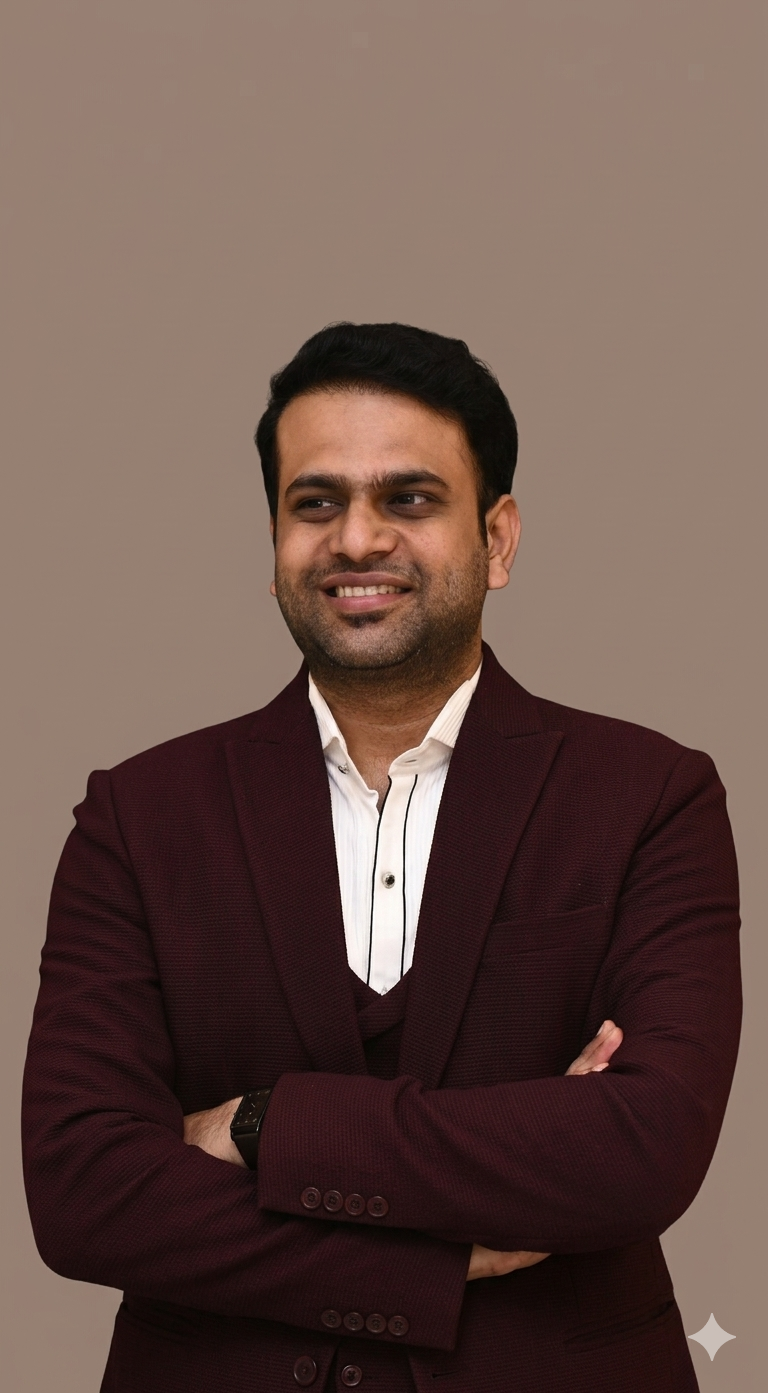
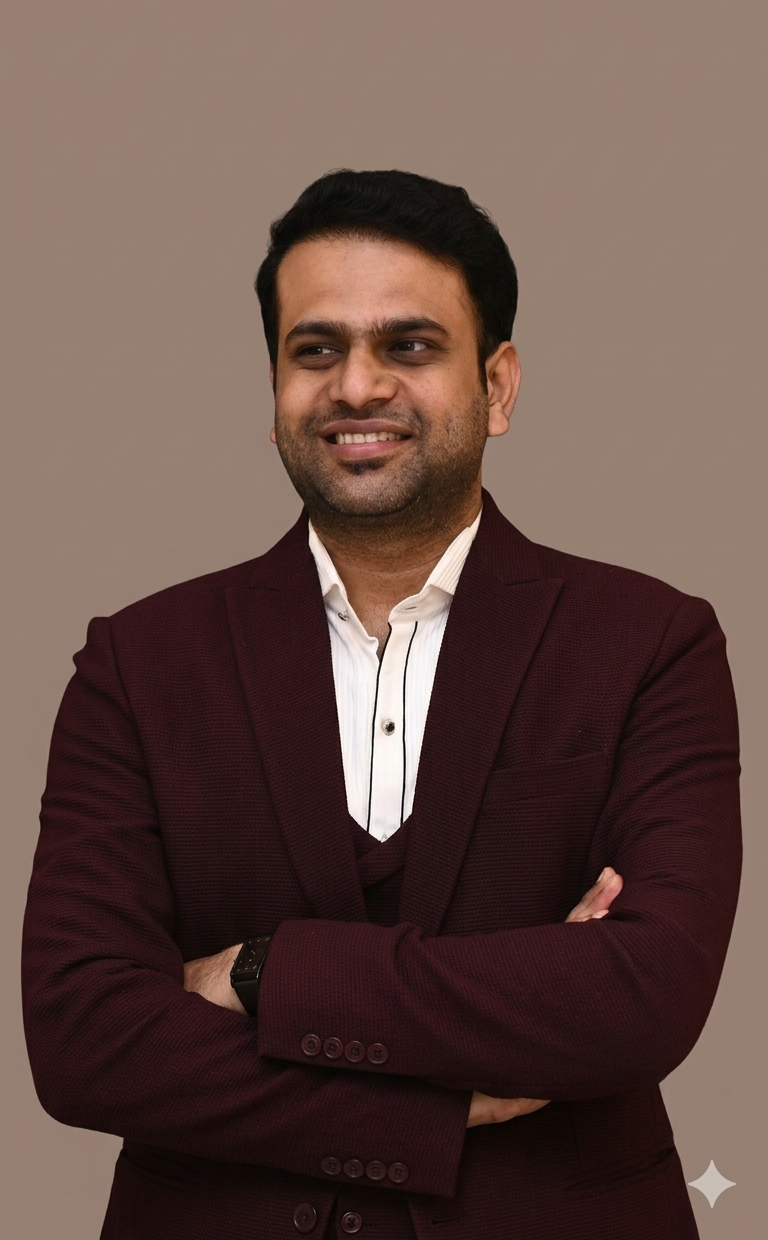
fix: server-side deletion of invalid session cookies (httpOnly)

diff --git a/src/constants/data/team.js b/src/constants/data/team.js
@@ -1,5 +1,5 @@
 const karthikPhoto = new URL("../../assets/karthik.png", import.meta.url).href;
-const sarathyPhoto = new URL("../../assets/sarathy.png", import.meta.url).href;
+const sarathyPhoto = new URL("../../assets/sarathy1.png", import.meta.url).href;
 const rohitPhoto = new URL("../../assets/Rohit.png", import.meta.url).href;
 
 /* Team Data */
